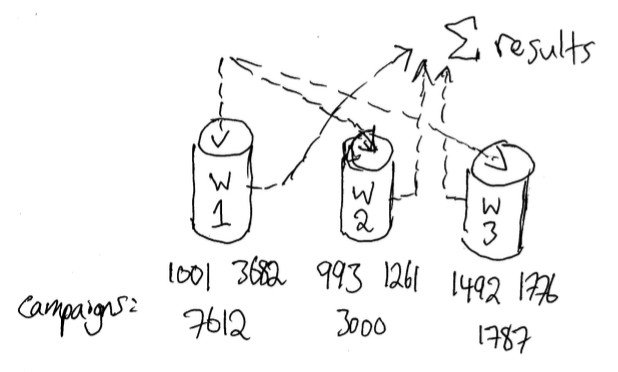
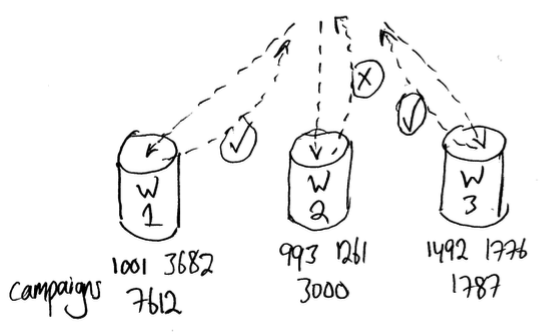
Image of inefficient filter across workers

diff --git a/ref_arch/multi_tenant.rst b/ref_arch/multi_tenant.rst
@@ -107,7 +107,7 @@ Any column of the :code:`campaigns` table could be its distribution column, but 
 
 If we distribute by the campaign id, then campaign data will be spread across multiple workers irrespective of company. There is extra overhead to ask all nodes for their information about company five when some of them won't even have any. The coordinator has to wait for all nodes to respond, and combine the results.
 
-TODO: diagram showing an inefficient query to all nodes
+.. image:: ../images/diagram-filter-non-tenant.png
 
 If we distribute by :code:`company_id`, on the other hand, then Citus can detect by the presence of :code:`WHERE company_id = 5` that all relevant information will be on a single worker. Citus can route the entire query to that worker for execution and pass the results through verbatim.
 
